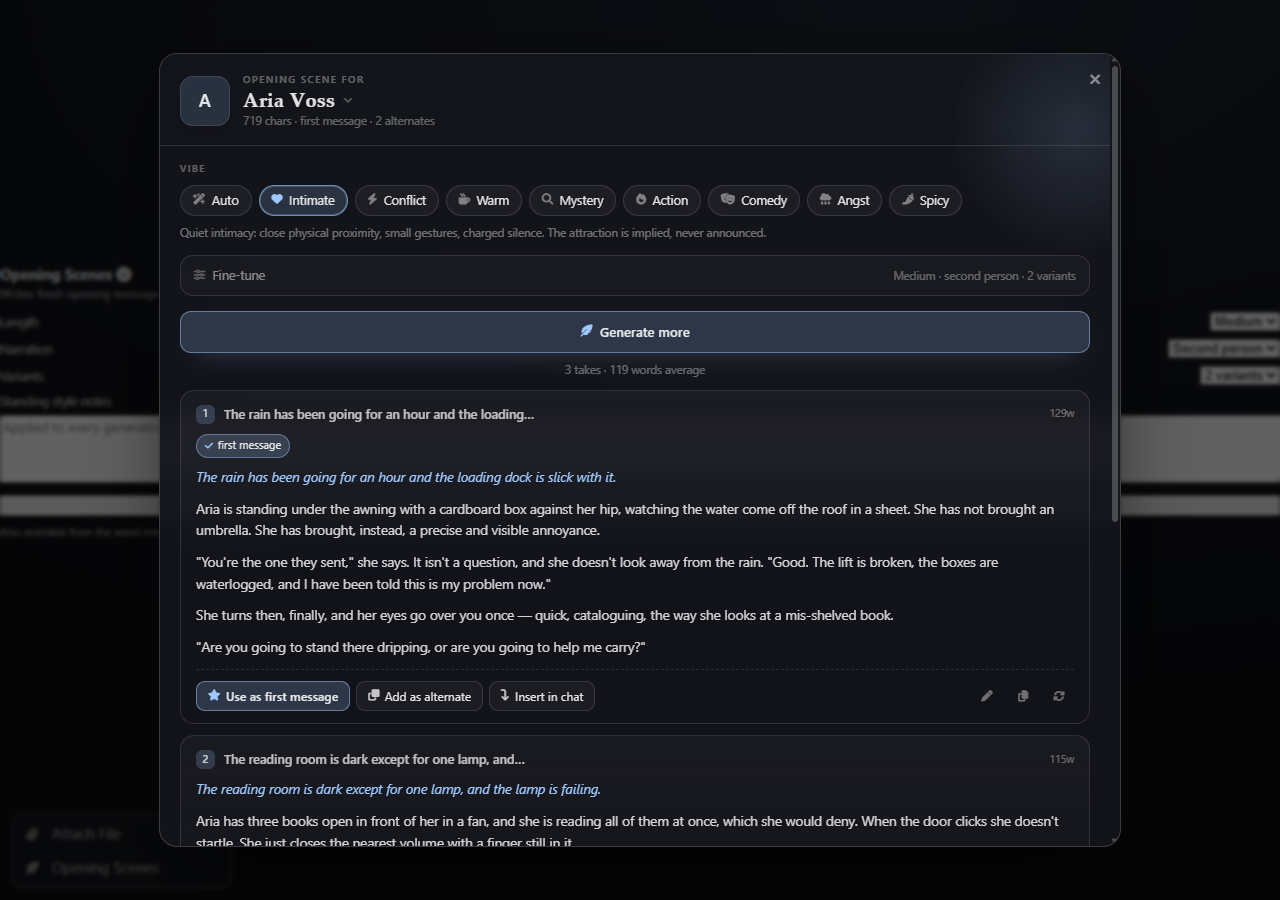
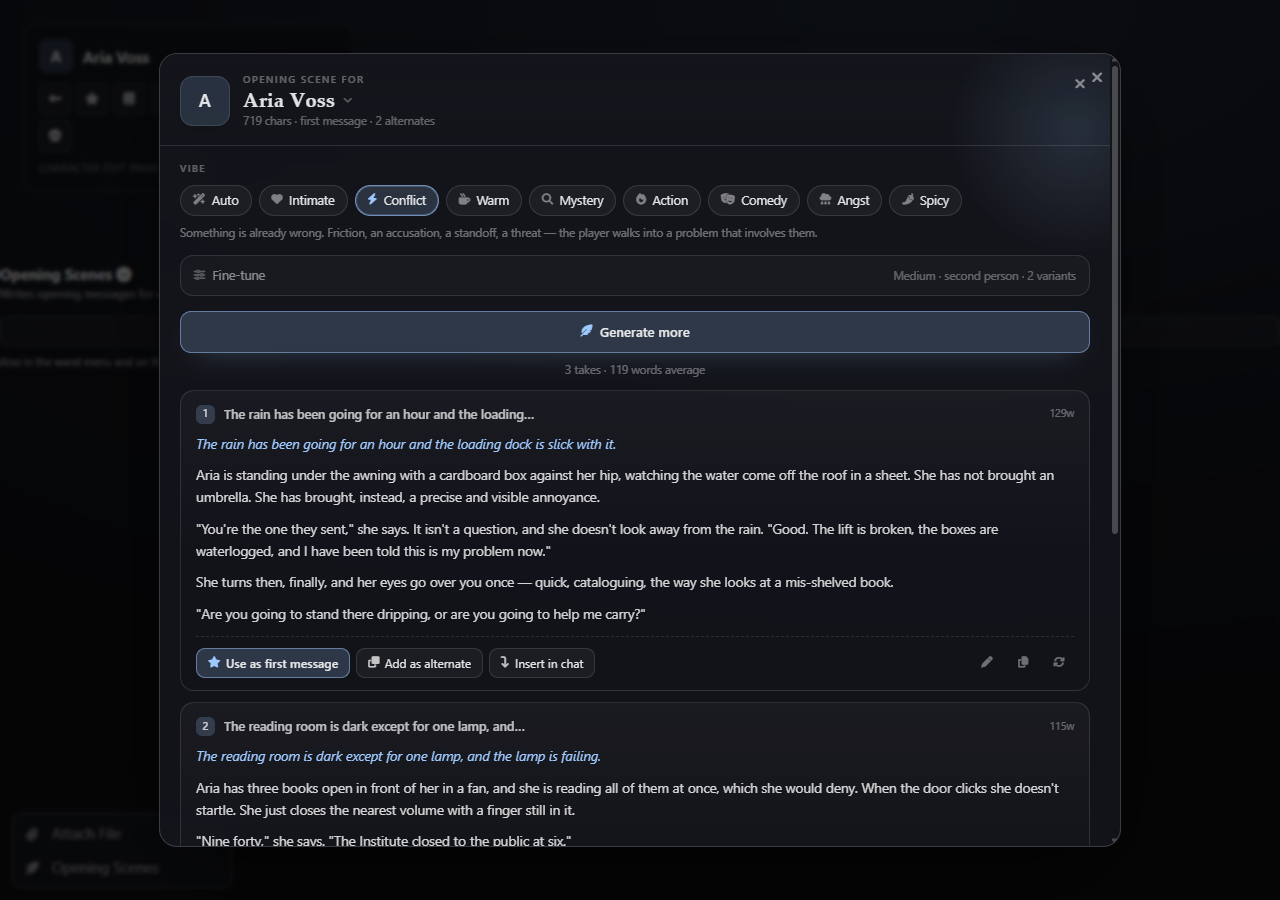
Refresh screenshot for the 1.1.0 layout

diff --git a/test/make_release.py b/test/make_release.py
@@ -1,4 +1,7 @@
-"""Creates the v1.0.0 release and uploads st-opening-scenes.zip. Dev-only helper."""
+"""Creates a release and uploads st-opening-scenes.zip. Dev-only helper.
+
+    python test/make_release.py <token> <version> [notes-file]
+"""
 
 import json
 import os
@@ -8,6 +11,8 @@ import urllib.request
 ROOT = os.path.dirname(os.path.dirname(os.path.abspath(__file__)))
 REPO = "HakaiGod420/st-opening-scenes"
 TOKEN = sys.argv[1]
+VERSION = sys.argv[2] if len(sys.argv) > 2 else "1.1.0"
+NOTES_FILE = sys.argv[3] if len(sys.argv) > 3 else None
 ZIP = os.path.join(ROOT, "st-opening-scenes.zip")
 
 HEADERS = {
@@ -17,9 +22,7 @@ HEADERS = {
     "Content-Type": "application/json",
 }
 
-BODY = """First public build.
-
-**Install**
+DEFAULT_BODY = """**Install**
 - Unzip `st-opening-scenes.zip` into `SillyTavern/public/scripts/extensions/third-party/`, or
 - *Extensions -> Install Extension* with `https://github.com/HakaiGod420/st-opening-scenes`
 
@@ -28,8 +31,11 @@ Writes opening messages that fit a character card: pick a vibe, get 1-4 takes, t
 an alternate greeting, or a new chat message. Reads the card's own description/personality/scenario/example dialogue
 and is told to avoid the existing greeting.
 
-Also available as `/opening` with `vibe`, `length`, `pov`, `count`, `direction`, `insert`.
+Open it from the wand menu, the Extensions drawer, or the feather button in the character edit panel.
+Close with the X or `Esc`. Also available as `/opening` with `vibe`, `length`, `pov`, `count`, `direction`, `insert`.
 """
+
+BODY = open(NOTES_FILE, encoding="utf-8").read() if NOTES_FILE else DEFAULT_BODY
 
 
 def api(url, data=None, method="GET", headers=None, raw=False):
@@ -43,9 +49,9 @@ def api(url, data=None, method="GET", headers=None, raw=False):
 release = api(
     f"https://api.github.com/repos/{REPO}/releases",
     data=json.dumps({
-        "tag_name": "v1.0.0",
+        "tag_name": f"v{VERSION}",
         "target_commitish": "main",
-        "name": "Opening Scenes 1.0.0",
+        "name": f"Opening Scenes {VERSION}",
         "body": BODY,
         "draft": False,
         "prerelease": False,
